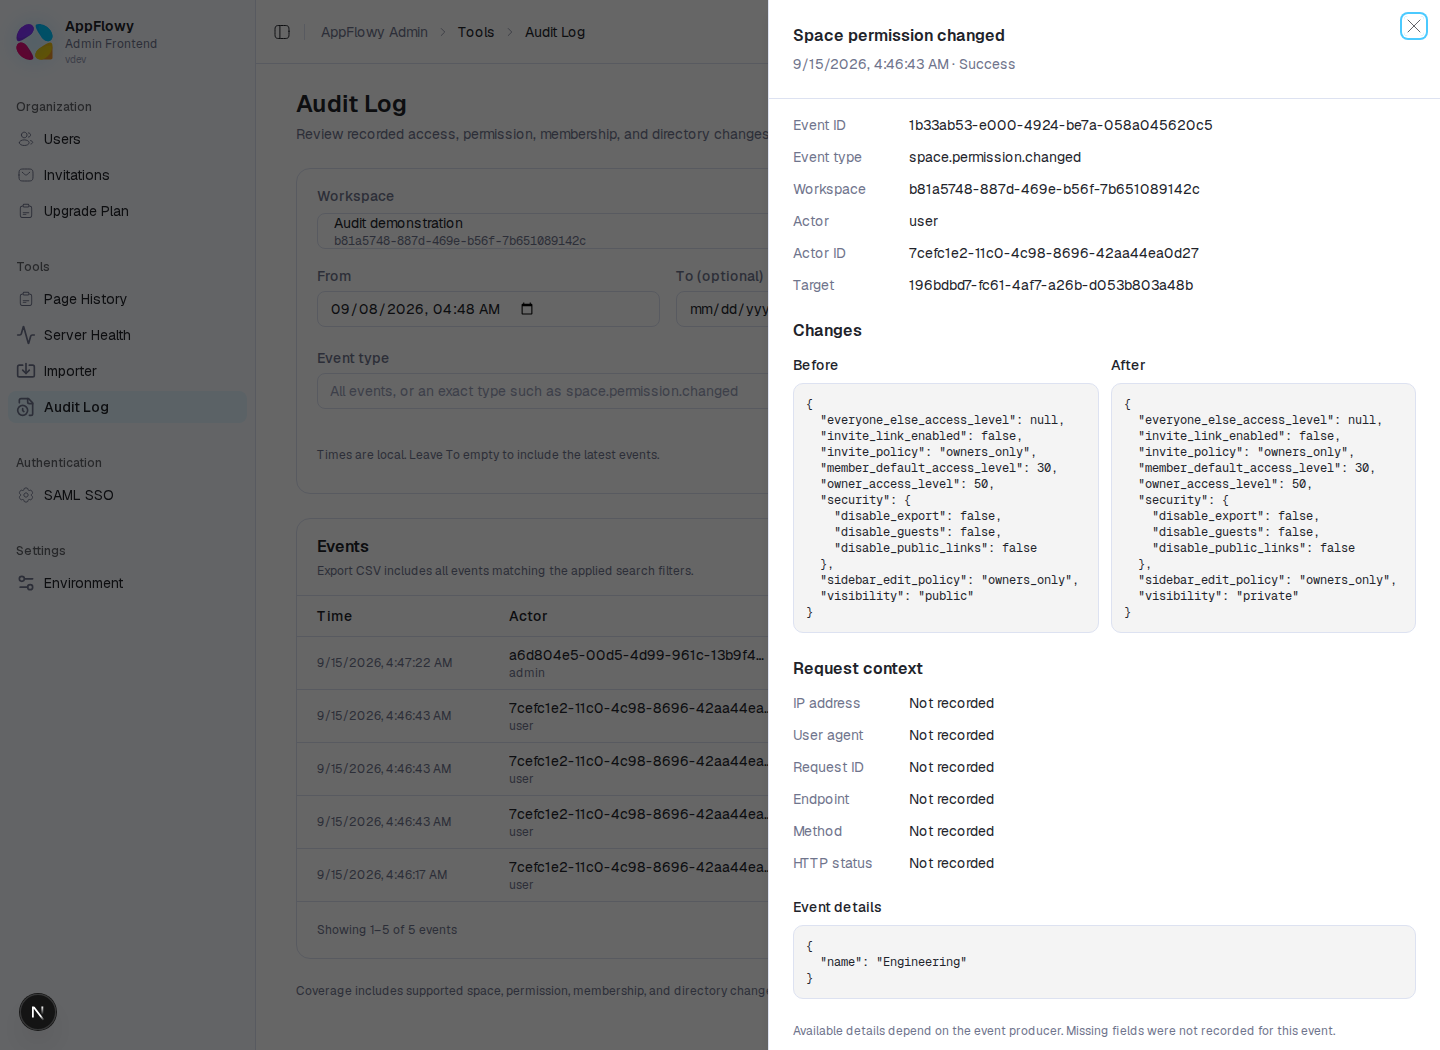
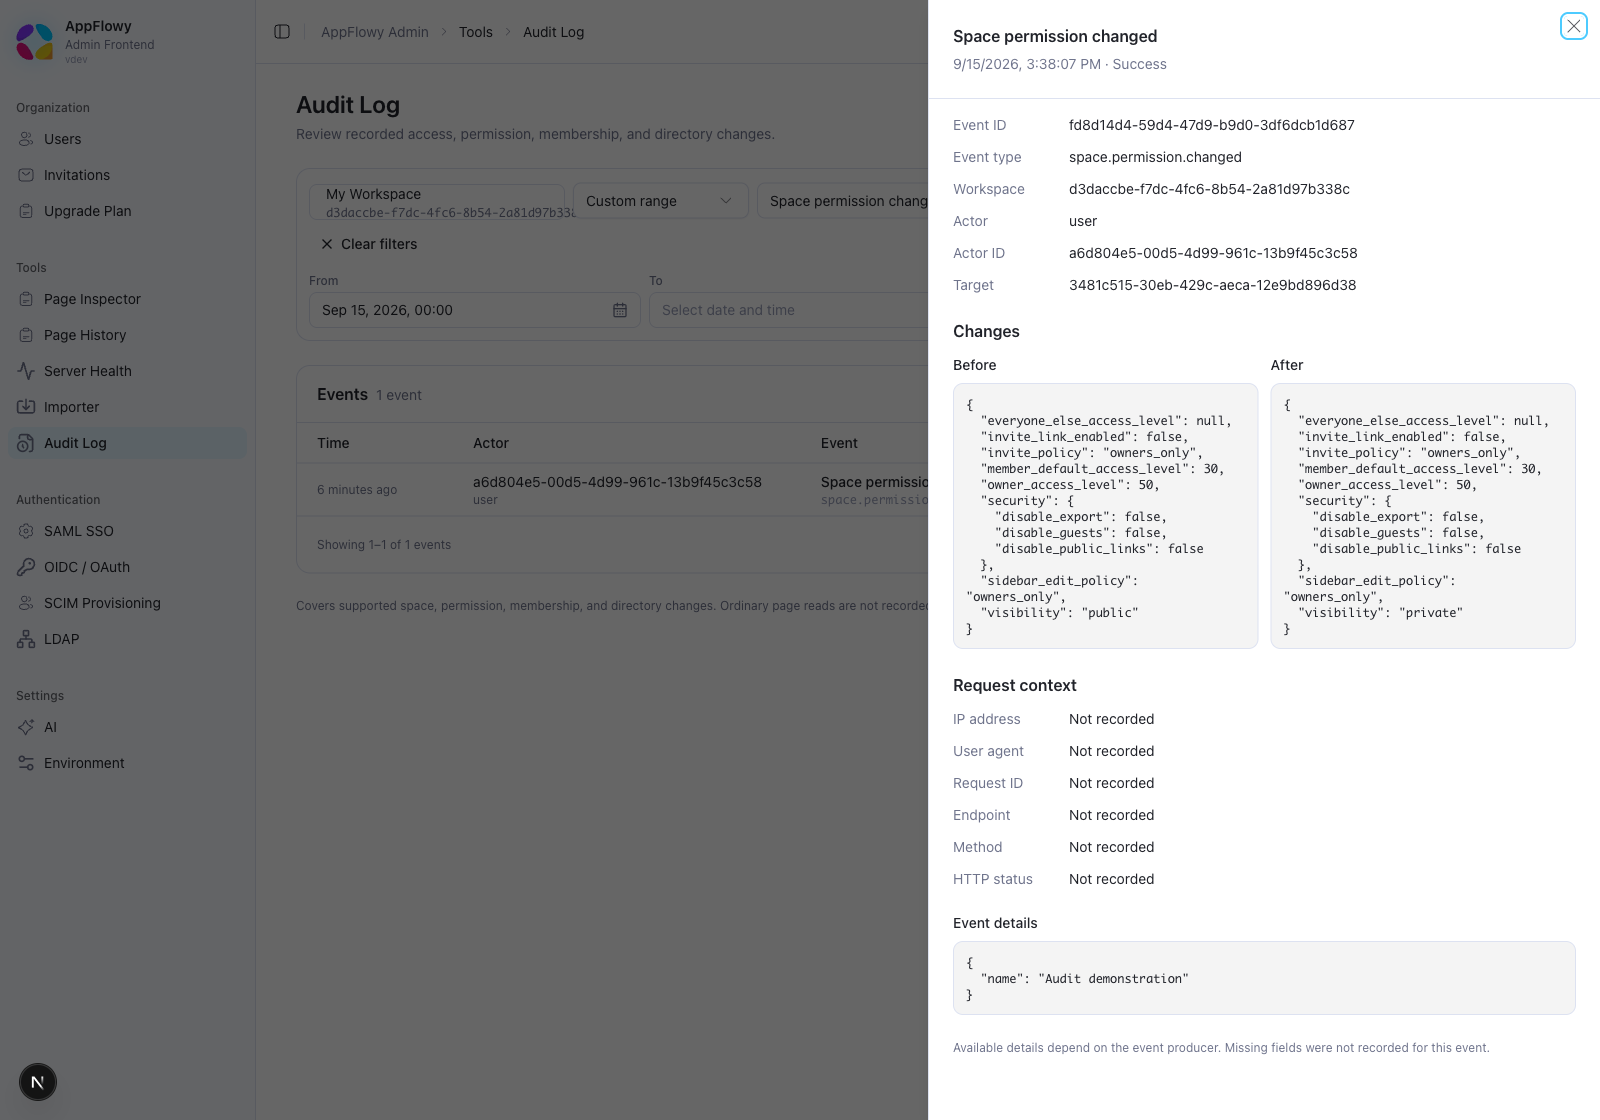
docs: update audit docs

diff --git a/docs/AUDIT.md b/docs/AUDIT.md
@@ -1,8 +1,8 @@
 # Audit Logging
 
-AppFlowy Self-Hosted can record supported space, permission, workspace membership, and directory changes. Use **Audit Log** in the Admin console to enable recording, search a workspace's events, inspect recorded changes, and export results.
+AppFlowy Self-Hosted can record supported space, permission, workspace membership, and directory changes. Use **Audit Log** in the Admin console to enable recording, search events across the deployment or within a workspace, inspect recorded changes, and export results.
 
-Audit logging is disabled by default. Enabling it applies to the whole deployment; the workspace selector controls which events you view.
+Audit logging is disabled by default. Enabling it applies to the whole deployment. Once enabled, the page shows the latest 50 recorded events across all workspaces. Every search filter is optional.
 
 ## Before you begin
 
@@ -12,7 +12,7 @@ Audit logging is disabled by default. Enabling it applies to the whole deploymen
 
 System administrators can review any workspace through this page without joining it. Being a workspace owner or space owner alone does not grant access to the Admin console.
 
-The screenshots below were captured from a running development Admin console and self-hosted server. The **Audit demonstration** workspace contains real group and space changes made through the server APIs using a generated test account. Your workspace names, identifiers, timestamps, and available sidebar entries will differ.
+The screenshots below show a running development Admin console connected to a self-hosted server. The example events were generated through AppFlowy Web in **My Workspace**: creating an **Audit demonstration** space, changing it from public to private, creating an **Audit reviewers** group with a member, and renaming it to **Audit review team**. Your workspace names, identifiers, timestamps, and available sidebar entries will differ.
 
 ## Step 1: Enable audit logging
 
@@ -22,7 +22,7 @@ The screenshots below were captured from a running development Admin console and
    ![Audit Log page with the Enable audit logging prompt](../asset/audit_enable.png)
 
 3. Click **Enable audit logging**. The console saves the deployment-wide `audit_enabled` setting and checks the server's effective status.
-4. When **Recording enabled** appears, the workspace selector and event browser become available.
+4. The event browser opens with **All workspaces**, **Any time**, **All events**, **All actors**, and **All** results selected. The **Disable recording** button appears at the top right.
 
 Enabling recording does not require a restart. The server handling the setting change refreshes its in-memory flag immediately. Other Cloud replicas and the standalone MCP service can take up to about 60 seconds to pick up the change. The page periodically refreshes status; reload it if another administrator recently changed the setting.
 
@@ -30,56 +30,72 @@ Enabling recording does not require a restart. The server handling the setting c
 
 If the page says **Audit logging is unavailable in this build**, its enable button is disabled. An `audit_enabled=true` database setting or `APPFLOWY_AUDIT_ENABLE=true` environment variable cannot activate the feature on a non-self-hosted server.
 
-## Step 2: Choose a workspace
+## Step 2: Browse recent events
 
-1. Open the **Workspace** selector.
-2. Search by workspace name or the owner's email address.
-3. Select the workspace. Its identifier is shown beneath the name so that workspaces with the same name can be distinguished.
+No workspace or time range is required. With the default filters, the page shows the newest retained events across all workspaces, with up to 50 events per page. Use **Next** and **Previous** to browse older and newer pages of the same search.
 
-![Searching for the Audit demonstration workspace](../asset/audit_workspace.png)
-
-The first results cover the last seven days. Events appear newest first, with up to 50 events per page.
-
-![Audit events for a workspace, including group creation, renaming, and space permission changes](../asset/audit_events.png)
+![Recent space and group changes across all workspaces, with optional filters and a Workspace column](../asset/audit_events.png)
 
 | Column | Meaning |
 | --- | --- |
-| **Time** | When the event occurred, displayed in your browser's local timezone. |
+| **Time** | Recent events use relative times, such as **5 minutes ago**; older events show a local date and time. Hover over the time or open the details to see the full local timestamp. |
 | **Actor** | The recorded email or name, when available; otherwise the actor's UUID or **System**. |
-| **Event** | A readable label and the exact event type. Click the label to inspect details. |
+| **Workspace** | The workspace UUID. This column appears when viewing **All workspaces**. |
+| **Event** | A readable label and the exact event type. Click the label or its row to inspect details. |
 | **Target** | The recorded resource name or identifier, with its resource type. |
 | **Result** | **Success**, **Failure**, or **Partial**, as recorded by the event producer. |
 
 Some permission-change producers record actor and target identifiers without names. A UUID in these columns is expected and does not mean the event is incomplete or the user was deleted.
 
+To narrow the view to one workspace:
+
+1. Open the **Workspace** selector.
+2. Search by workspace name, workspace UUID, or the owner's email address.
+3. Select the workspace. Its identifier is shown beneath the name so that workspaces with the same name can be distinguished.
+
+![Selecting My Workspace, with All workspaces available to remove the workspace filter](../asset/audit_workspace.png)
+
+Selecting a workspace immediately loads its first page using the other applied filters. Select **All workspaces** to remove only the workspace restriction.
+
 ## Step 3: Filter the events
 
-Set the filters, then click **Search**.
+All filters are optional and selections apply immediately. Each filter change returns to the first page. Use the toolbar to narrow the results, or leave its defaults to browse the latest 50 events without a workspace or time restriction.
 
 | Filter | How to use it |
 | --- | --- |
-| **From** | Start date and time, inclusive. Defaults to seven days ago. Clear it to include all retained earlier events. |
-| **To (optional)** | End date and time, inclusive. Leave it empty to include the latest events. |
-| **Result** | Choose all results, success, failure, or partial. |
-| **Event type** | Enter an exact event type, such as `space.permission.changed`. Suggested types are available, and other exact types can be entered. Wildcards and free-text searches are not supported. |
-| **Actor ID** | Enter the actor's UUID, or leave it empty for all actors. Copy the full UUID from an event's details; this field does not search by email. |
+| **Workspace** | Defaults to **All workspaces**. Search by workspace name, UUID, or owner email, then select one to restrict the results. |
+| **Date range** | Defaults to **Any time**. Choose **Last hour**, **Last 24 hours**, **Last 7 days**, **Last 30 days**, or **Custom range**. |
+| **Event type** | Open the picker and search its suggestions by label or event type. Select an exact type, such as `space.permission.changed`, or enter another exact type and choose **Use "…"**. Select **All events** to remove the filter. Wildcards and free-text event-content searches are not supported. |
+| **Actor** | Open **All actors**, enter at least two characters of an email address, and select a matching user. You can also paste a full actor UUID and choose **Use this user ID**. Select **All actors** to remove the filter. |
+| **Result** | Click **All**, **Success**, **Failure**, or **Partial**. |
 
-Dates are entered in your local timezone and converted to UTC for the request. **From** cannot be later than **To**.
+Choose **Custom range** to reveal **From** and **To**. Both boundaries are optional and inclusive: leave **From** empty to include all retained earlier events, or leave **To** empty to include the latest events.
 
-![Filtering the audit log to space.permission.changed](../asset/audit_filtered.png)
+Open either date field to choose a day from the calendar, or enter a date as `YYYY-MM-DD` and a time as `HH:mm`. **Today** selects the current date; **Clear** removes that boundary, and **Done** closes the picker. Valid date changes apply immediately. An incomplete date or a **From** value later than **To** displays an error and leaves the last valid range applied. Dates use your local timezone and are converted to UTC for the request.
 
-- **Reset filters** restores the last-seven-days search and clears the event, actor, and result filters.
+Relative ranges are measured from the current time when results are requested. **Refresh** advances that window. Use **Custom range** when you need fixed start and end times.
+
+![Date and time picker with a calendar and Clear, Today, and Done controls](../asset/audit_date_picker.png)
+
+![Searchable event type picker showing readable labels and exact event types](../asset/audit_event_picker.png)
+
+![Filtering the audit log to the Audit demonstration space permission change](../asset/audit_filtered.png)
+
+- **Clear filters** restores **All workspaces**, **Any time**, **All events**, **All actors**, and **All** results, and returns to the first page. It appears when a filter is active.
 - **Refresh** reloads the currently applied search and checks audit status.
-- **Previous** and **Next** move through the same search results.
-- **No events match this search** means the query succeeded but found no matching events. Try a wider date range or fewer filters, and confirm a supported action occurred while recording was enabled.
+- **Previous** and **Next** move through the same search results in pages of 50.
+- **No events match these filters** means the query succeeded but found no matching events. Try a wider date range or fewer filters, or use **Clear filters** in the empty result area.
+- **No events recorded yet** means there are no retained events in the unfiltered view. Perform a supported action while recording is enabled, then click **Refresh**.
 
-Editing a filter does not change the applied search until you click **Search**. Pagination and export continue to use the applied filters.
+Filters and the current page are saved in the page URL, so you can reload, bookmark, or share a filtered view with another system administrator. The link restores the selected filters; a relative range still refers to the current time. Incomplete custom-date edits are not saved in the URL.
+
+If a periodic status check or **Refresh** cannot check audit availability, the page displays the error and a **Retry** button. After a successful initial status check, a transient status-refresh failure preserves the active filters, current page, and any custom-date draft edits.
 
 ## Step 4: Inspect a change
 
-Click an event label to open the detail panel.
+Click an event row or its event label to open the detail panel.
 
-![Event detail panel showing the recorded before and after space permissions](../asset/audit_event_details.png)
+![Event detail panel showing the Audit demonstration space changing from public to private](../asset/audit_event_details.png)
 
 The panel contains:
 
@@ -92,11 +108,11 @@ Scroll within the panel to see the remaining fields. **Not recorded** means the 
 
 ## Step 5: Export the results
 
-1. Choose a workspace and apply the filters you need.
+1. Leave **All workspaces** selected or choose a workspace, then apply any other filters you need.
 2. Click **Export CSV** beside **Refresh**.
-3. Save the downloaded `audit-logs-<workspace-id>.csv` file.
+3. Save the downloaded file: `audit-logs.csv` for all workspaces, or `audit-logs-<workspace-id>.csv` for one workspace.
 
-Export includes **all events matching the applied filters**, across every results page. Narrow the date range for large workspaces: the server currently builds the matching export in memory.
+Export includes **all events matching the current filters**, across every results page. With no filters, this includes all retained events across the deployment. Relative date ranges are evaluated again when you export; use a custom range for a fixed interval. Narrow the workspace or date range for large exports: the server currently builds the matching export in memory.
 
 The CSV contains event and actor metadata, target identifiers, results, available request metadata, and `event_details`. The separate **Before** and **After** snapshots are currently available in the detail panel and JSON API, but are not separate CSV columns. CSV timestamps are UTC.
 
@@ -104,7 +120,7 @@ A successful export also creates a `security.audit_log.exported` event asynchron
 
 ## Disable recording
 
-1. Click **Disable recording** beside the **Recording enabled** badge.
+1. Click **Disable recording** at the top right of the Audit Log page.
 2. Review the confirmation and click **Disable recording** again, or choose **Cancel** to leave it enabled.
 
 ![Confirmation before disabling deployment-wide audit recording](../asset/audit_disable.png)
@@ -173,7 +189,7 @@ Covered permission mutations and their audit records commit in the same database
 
 Directory provisioning and effective access reconciliation can appear as separate events because they happen in separate operations. Changing a parent space's policy can affect inherited access without producing one event for every descendant page.
 
-This is **not a complete log of every read or denied request**. Ordinary page/space reads, downloads, realtime access, and general permission denials do not have comprehensive audit coverage. Authentication events without a workspace association do not appear in this workspace browser. There is currently no separate filter for a space or target resource.
+This is **not a complete log of every read or denied request**. Ordinary page/space reads, downloads, realtime access, and general permission denials do not have comprehensive audit coverage. Recorded events without a workspace association, such as some authentication events and all-workspace exports, are included in **All workspaces** and use the all-zero workspace UUID. They are excluded when a specific workspace is selected. There is currently no separate filter for a space or target resource.
 
 ## Troubleshooting
 
@@ -181,10 +197,11 @@ This is **not a complete log of every read or denied request**. Ordinary page/sp
 | --- | --- |
 | **Audit Log** is missing from the sidebar | Upgrade the Admin Frontend to a version containing this page and sign in as a system administrator. |
 | **Audit logging is unavailable in this build** | Deploy a self-hosted Cloud build. Configuration cannot enable auditing on managed builds. |
-| **Could not check audit availability** | Check the Cloud connection and server version. The page requires the admin audit status endpoint; a `404` commonly means the server is older than the console. |
+| **Could not check audit availability** | Check the Cloud connection and server version, then click **Retry**. A transient refresh failure keeps the active filters, page, and custom-date draft edits. The page requires the admin audit status endpoint; a `404` commonly means the server is older than the console. |
 | The setting changed, but status has not changed yet | Allow other server replicas time to refresh, then reload the page. Check that the console connects to the intended deployment. |
 | Environment enablement has no effect | A database override takes priority. Also confirm the variable was passed to the running container. |
 | No matching events | Check workspace, time range, event type, and actor UUID. Confirm auditing was enabled when a supported action occurred. Events may also have expired. |
+| Actor search finds no user or fails | Paste the actor UUID from an event's details and choose **Use this user ID**, or select **All actors**. The email picker searches current users; the audit filter uses the recorded actor UUID. |
 | Actor/target names or request context are missing | The producer may only record identifiers or may not capture that request context. Inspect the stored snapshots and event details. |
 | Query or export fails | Use **Retry**, check recording is still enabled, and check your administrator session. A server error is displayed separately from an empty result. |
 
@@ -197,9 +214,13 @@ The Admin console uses these authenticated endpoints:
 | `GET` | `/api/admin/audit-logs/status` | Effective `supported` and `enabled` flags. |
 | `POST` | `/api/admin/system-config` | Save `{"key":"audit_enabled","value":"true"}` or `"false"`. |
 | `DELETE` | `/api/admin/system-config/audit_enabled` | Remove the override and restore the environment/default behavior. |
-| `GET` | `/api/admin/audit-logs/{workspace_id}` | Paginated JSON events. |
-| `POST` | `/api/admin/audit-logs/{workspace_id}/export` | CSV export using query-string filters. |
+| `GET` | `/api/admin/audit-logs` | Paginated JSON events across all workspaces, or one workspace with the optional `workspace_id` query parameter. |
+| `POST` | `/api/admin/audit-logs/export` | CSV export using the same optional query-string filters. |
 
-Listing and export accept `start_date` and `end_date` as RFC 3339 timestamps, an exact `event_type`, `actor_id` as a UUID, and `event_status` as `success`, `failure`, or `partial`. Listing also accepts `limit` (default 50, capped at 500) and a nonnegative `offset`.
+Listing and export accept optional `workspace_id` and `actor_id` UUIDs, `start_date` and `end_date` as RFC 3339 timestamps, an exact `event_type`, and `event_status` as `success`, `failure`, or `partial`. Omitted filters impose no restriction. Listing also accepts `limit` (default 50, capped at 500) and a nonnegative `offset`; the Admin console uses 50. Events are ordered by timestamp descending, then event ID descending to break ties. The JSON page contains `logs`, `total_count`, and `has_more`.
+
+For example, `GET /api/admin/audit-logs?limit=50&offset=0` returns the latest 50 events across all workspaces. Use `offset=50` for the next page, or add `workspace_id=<uuid>` to restrict the query. Export uses the same filters and includes all matching rows without pagination.
+
+The earlier `GET /api/admin/audit-logs/{workspace_id}` and `POST /api/admin/audit-logs/{workspace_id}/export` routes remain available. On these routes, the path determines the workspace; a query-string `workspace_id` cannot change it.
 
 These routes require a system administrator. The separate `/api/workspaces/{workspace_id}/audit-logs` and `/export` routes require an active workspace **Owner** membership and keep that requirement even if the optional workspace authorizer is disabled. Both API families reject listing and export while auditing is disabled.
